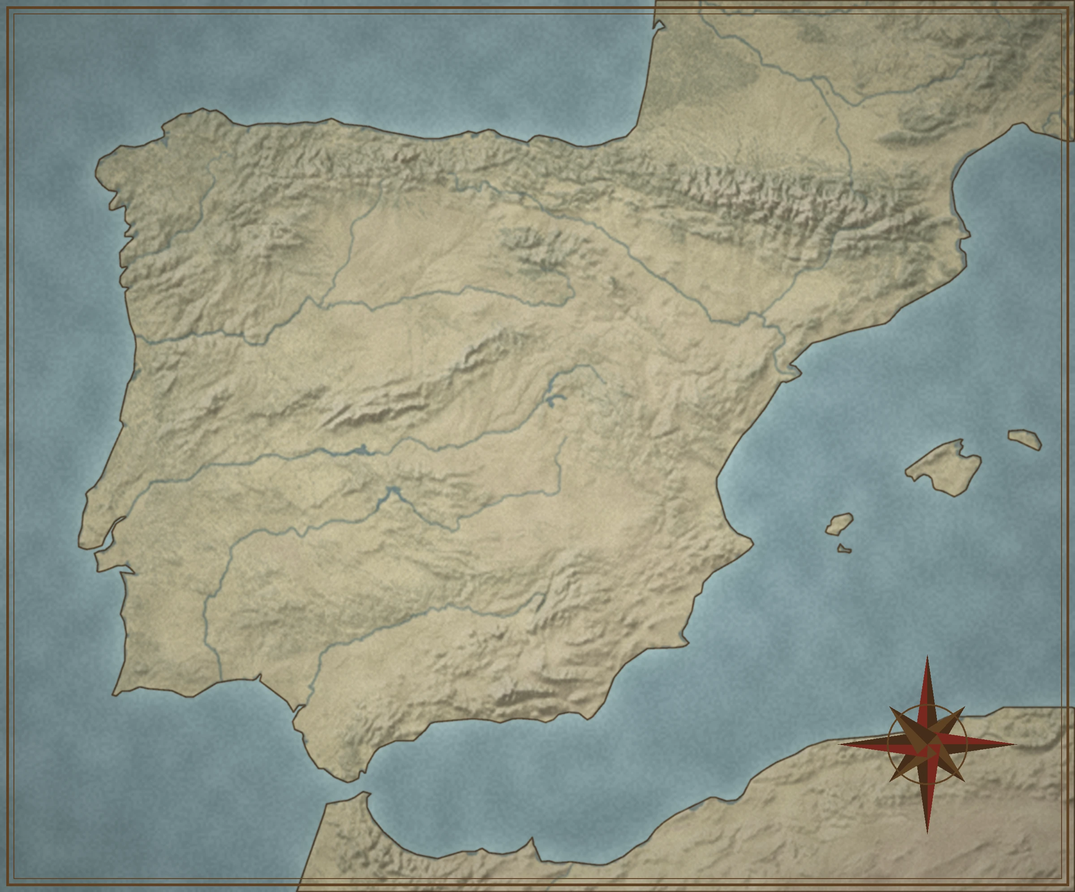
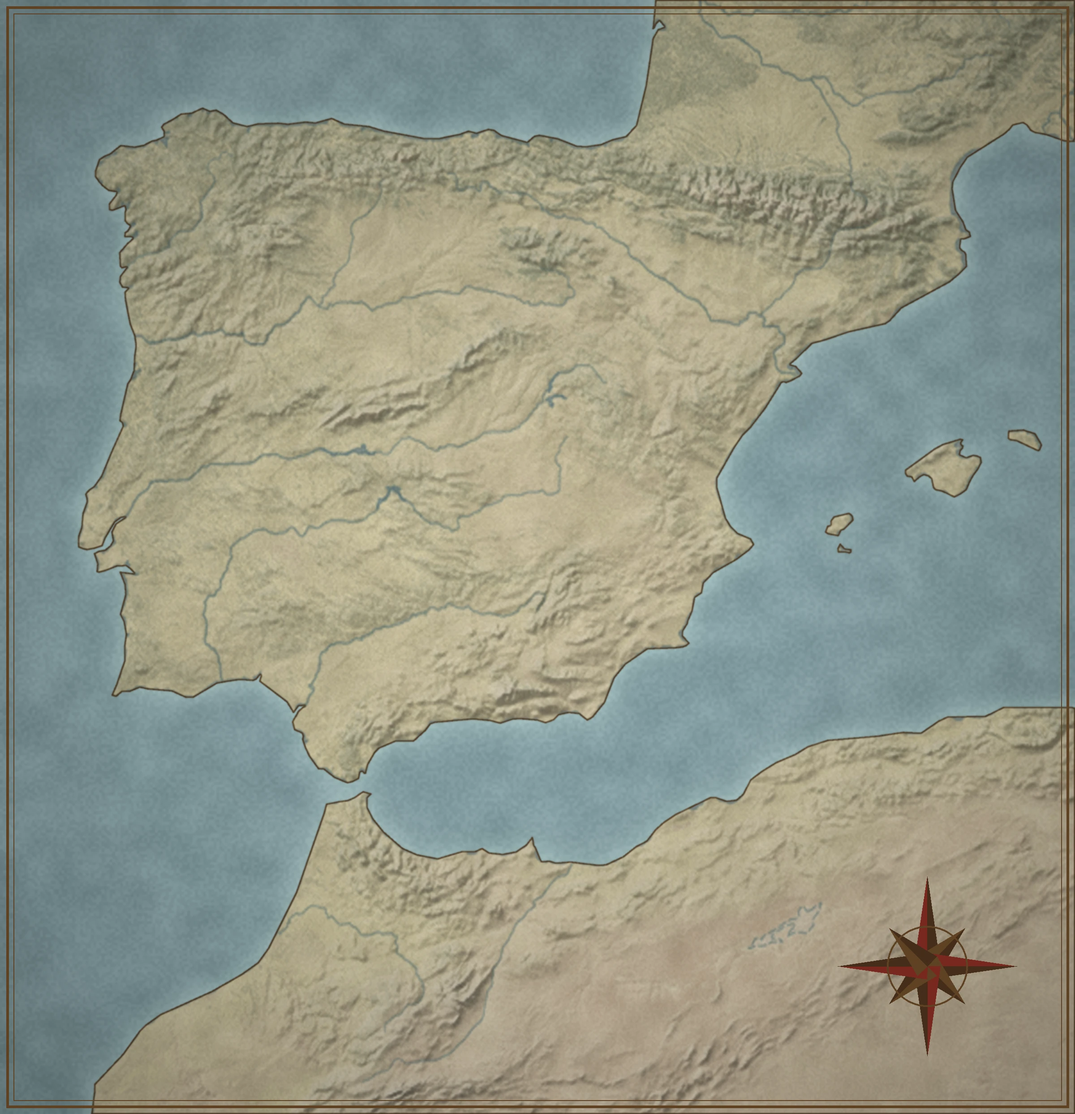
North Africa: 11 real ports, map extended and background rebuilt, Alpha scope doc (#82)

diff --git a/docs/alpha-scope.md b/docs/alpha-scope.md
@@ -1,0 +1,28 @@
+# Alpha scope
+
+Decision by the project owner (20 Oct 2026): the playable area of the Alpha is **Iberia plus the north of Africa**. The map is frozen at that area. Work after this point goes into game mechanics and graphics, not into more map.
+
+## What is in the map (33 ports)
+
+- Iberia, Atlantic coast: La Coruna, Vigo, Oporto, Lisboa, Setubal, Faro, Huelva, Cadiz, Sevilla (river port).
+- Iberia, north coast: Bilbao, San Sebastian, Santander.
+- Iberia, Mediterranean coast and islands: Malaga, Almeria, Cartagena, Alicante, Valencia, Tarragona, Barcelona, Palma, Ibiza.
+- North Africa, Atlantic and strait: Tanger, Ceuta, Tetuan (river port), Arcila, Larache, Rabat, Casablanca, Mazagan.
+- North Africa, Mediterranean: Melilla, Oran, Mostaganem, Argel.
+
+## What is out, and why
+
+- Tunis, Bugia (Bejaia), Tripoli and everything further east: they would widen the map past the Balearic Islands and are not needed for the Alpha.
+- Canary Islands, Madeira, Azores: Atlantic islands far from the map frame.
+- Southern Morocco (Safi, Agadir): the map stops at Mazagan in the south.
+- France, Italy and the rest of the Mediterranean: outside the Alpha.
+
+## Rule
+
+Changing this list (adding or removing a port, or changing the map extent) is a decision of the project owner, not a routine change. The extent also decides the background image, so the image must be rebuilt with `tools/build_background.py` whenever it changes.
+
+## Data quality
+
+- Coordinates come from OpenStreetMap (see CREDITS.md).
+- Populations around 1500 come from Bairoch et al. (1988) via a manual transcription; a port the source does not list is `null`, never zero. All 11 North African ports are `null` for 1500.
+- The goods each port makes and needs are design choices, not historical data.

diff --git a/CREDITS.md b/CREDITS.md
@@ -10,3 +10,4 @@
 - src/game/profile.mjs: coat of arms shapes, emblems, portraits and house flags are drawn in code as SVG strings. Own work, CC BY 4.0 (AI-assisted), same licence as the other original art. Added 19 Oct 2026.
 - data/population-1500.json: city populations around the year 1500 from Bairoch, Batou and Chevre (1988), "La population des villes europeennes 800-1850", via the manual transcription by Jacob W. Russ (github.com/JakeRuss/bairoch-1988; copyright of the data stays with the original authors, used here as nine cited figures). Added 20 Oct 2026.
 - Coordinates of 13 more port cities (Oporto, Setubal, Faro, Huelva, Malaga, Almeria, Alicante, Ibiza, Tarragona, Santander, San Sebastian, La Coruna, Vigo): geocoded from OpenStreetMap data (c) OpenStreetMap contributors, ODbL, via Nominatim, 20 Oct 2026. Their 1500 populations are in data/population-1500.json (same Bairoch source, null where not listed).
+- Coordinates of 11 North African ports (Ceuta, Melilla, Tetuan, Arcila, Larache, Rabat, Casablanca, Mazagan, Oran, Argel, Mostaganem): OpenStreetMap data (c) OpenStreetMap contributors, ODbL, via Nominatim, 20 Oct 2026. assets/map/background.webp rebuilt for the larger extent (Natural Earth, public domain).
